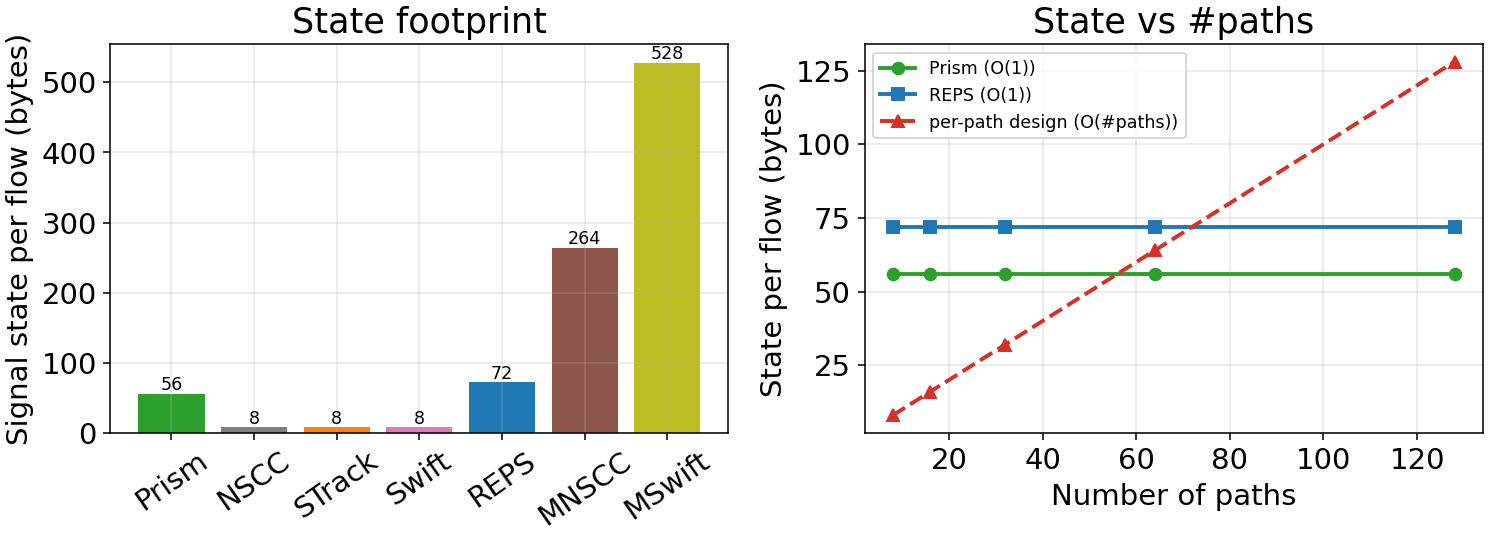
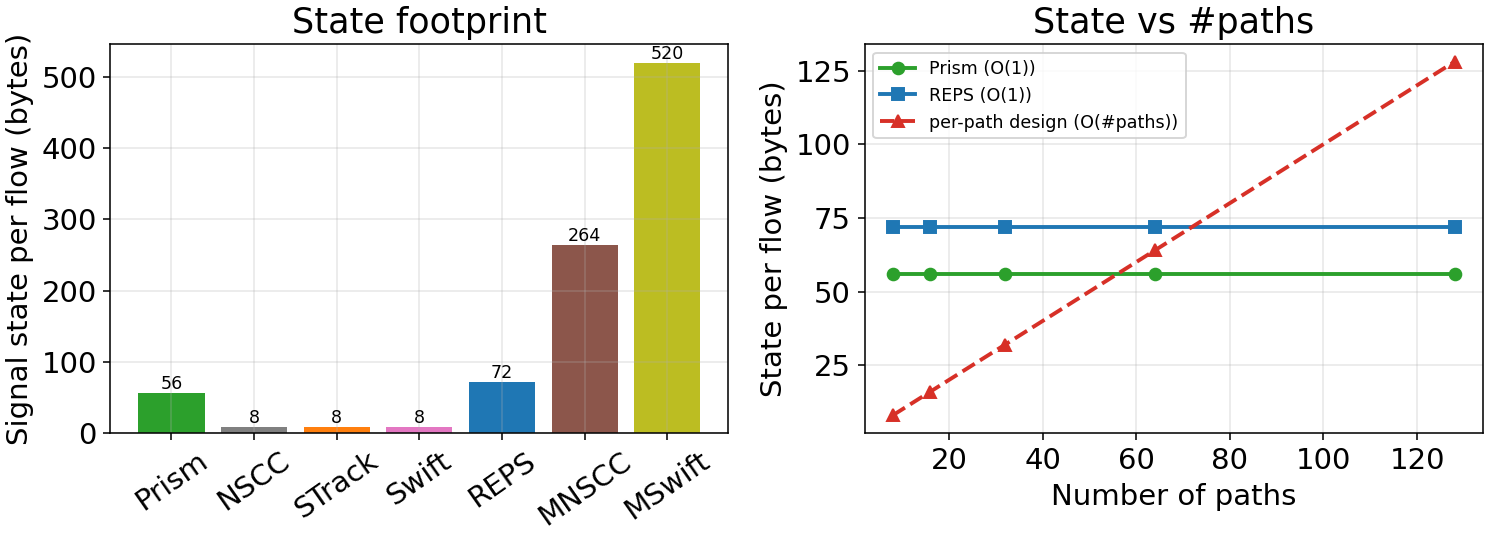
prism_eval: expH_overhead final-review fixes (MSwift state 520B apples-to-apples; uec.h citations; re-pin to one bench run)

diff --git a/htsim/sim/datacenter/prism_eval/expH_overhead/overhead_bench.cpp b/htsim/sim/datacenter/prism_eval/expH_overhead/overhead_bench.cpp
@@ -17,11 +17,11 @@ typedef uint64_t u64;
 using clk = std::chrono::steady_clock;
 
 // --- representative signal-state groups, mirroring the real UecSrc members (file:line) ---
-struct PrismState  { u64 start,min,max,ccc,cspray; uint32_t samples; int region; bool genuine; };   // uec.cpp:482-491
-struct MnsccState  { u64 window[32]; uint32_t wcount, whead; };                                      // uec.cpp:495-498 (MNSCC_MAX_H=32)
-struct MswiftState { u64 window[64]; uint32_t wcount, whead, overcount; };                           // uec.cpp:502-505 (SWIFT_MAX_H=64)
-struct SwiftState  { u64 last_dec; };                                                                // uec.cpp:~1699
-struct NsccState   { u64 reuse; };          // NSCC reuses base UecSrc scalars; no signal buffer     // uec.cpp:1460-1507
+struct PrismState  { u64 start,min,max,ccc,cspray; uint32_t samples; int region; bool genuine; };   // uec.h:483-490
+struct MnsccState  { u64 window[32]; uint32_t wcount, whead; };                                      // uec.h:495-498 (MNSCC_MAX_H=32)
+struct MswiftState { u64 window[64]; uint32_t wcount, whead; };                                      // uec.h:502-505 median window (SWIFT_MAX_H=64); overcount is LSwift-base state, excluded for apples-to-apples vs MNSCC
+struct SwiftState  { u64 last_dec; };                                                                // uec.h:~1699
+struct NsccState   { u64 reuse; };          // NSCC reuses base UecSrc scalars; no signal buffer     // uec.h:1460-1507
 struct RepsElem    { uint16_t value; bool isValid; int usable_lifetime; };                           // buffer_reps.h
 struct RepsState   { RepsElem buf[8]; int16_t head, tail; uint16_t count; };                         // repsBufferSize=8
 

diff --git a/htsim/sim/datacenter/prism_eval/expH_overhead/README.md b/htsim/sim/datacenter/prism_eval/expH_overhead/README.md
@@ -24,7 +24,7 @@ Wire column: none of these schemes add any extra header fields.
 | STrack      |         8 | O(1)        | O(1)        | none |
 | Swift       |         8 | O(1)        | O(1)        | none |
 | MNSCC       |       264 | O(1) [32-win] | O(H log H) | none |
-| MSwift      |       528 | O(1) [64-win] | O(H log H) | none |
+| MSwift      |       520 | O(1) [64-win] | O(H log H) | none |
 | REPS (LB)   |        72 | O(8)        | O(1)        | none |
 | BITMAP\*    |    O(#paths) | O(#paths) | O(#paths)  | none |
 
@@ -39,17 +39,17 @@ Its state grows linearly with the number of monitored paths; shown in figO1 (rig
 
 **Reading.** Prism holds 56 B per flow (two uint32 running-min/max accumulators plus scalars).
 NSCC, STrack, and Swift each need 8 B (one or two scalars).  MNSCC carries a 32-sample circular
-buffer (264 B) and MSwift a 64-sample buffer (528 B) — 4.7× and 9.4× more than Prism.  REPS
+buffer (264 B) and MSwift a 64-sample buffer (520 B) — 4.7× and 9.3× more than Prism.  REPS
 (the load balancer) holds a per-path bitmask, fixed at 72 B for 8 paths.  The right panel
 shows that Prism and REPS are flat as #paths grows, while a hypothetical per-path design scales
 linearly.
 
 ### figO2 — Per-ACK compute
 
-**Reading.** Prism's signal-extraction routine takes **1.87 ns/ACK** (microbench, isolated timing;
-machine-specific — see caveat 1).  NSCC is 1.24 ns, STrack 2.04 ns, Swift 10.29 ns — all O(1)
-and in the same single-digit-ns range.  MNSCC at its default window of H=32 costs **284 ns/ACK**
-and MSwift at H=64 costs **742 ns/ACK** — 152× and 397× more than Prism respectively.  The right
+**Reading.** Prism's signal-extraction routine takes **1.25 ns/ACK** (microbench, isolated timing;
+machine-specific — see caveat 1).  NSCC is 1.17 ns, STrack 1.64 ns, Swift 9.45 ns — all O(1)
+and in the same single-digit-ns range.  MNSCC at its default window of H=32 costs **252 ns/ACK**
+and MSwift at H=64 costs **696 ns/ACK** — 203× and 559× more than Prism respectively.  The right
 panel shows both median schemes scale super-linearly with window size H (O(H log H) sorting),
 while Prism's cost (dashed line) stays flat.
 
